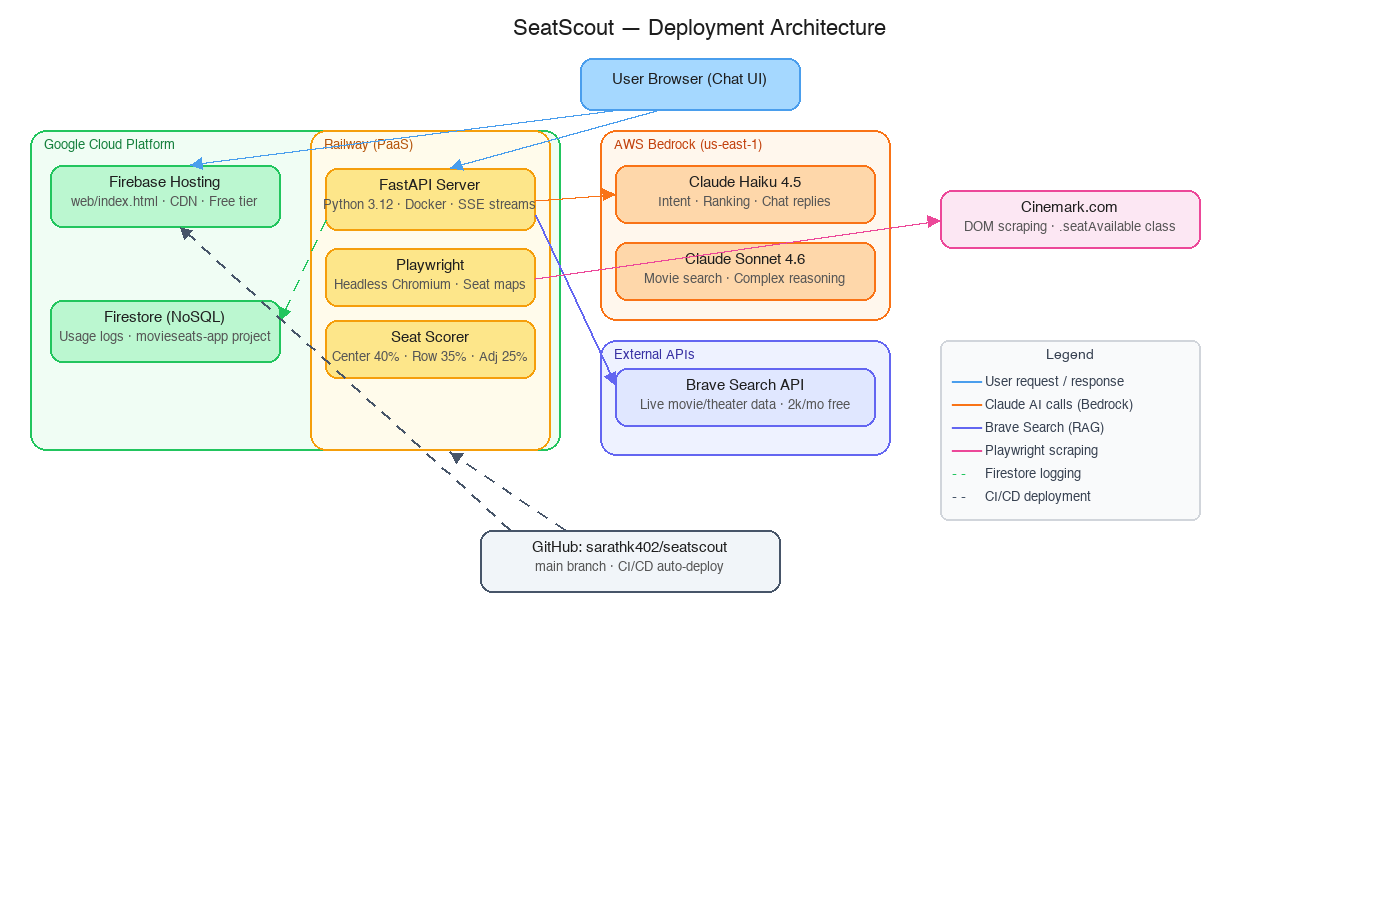
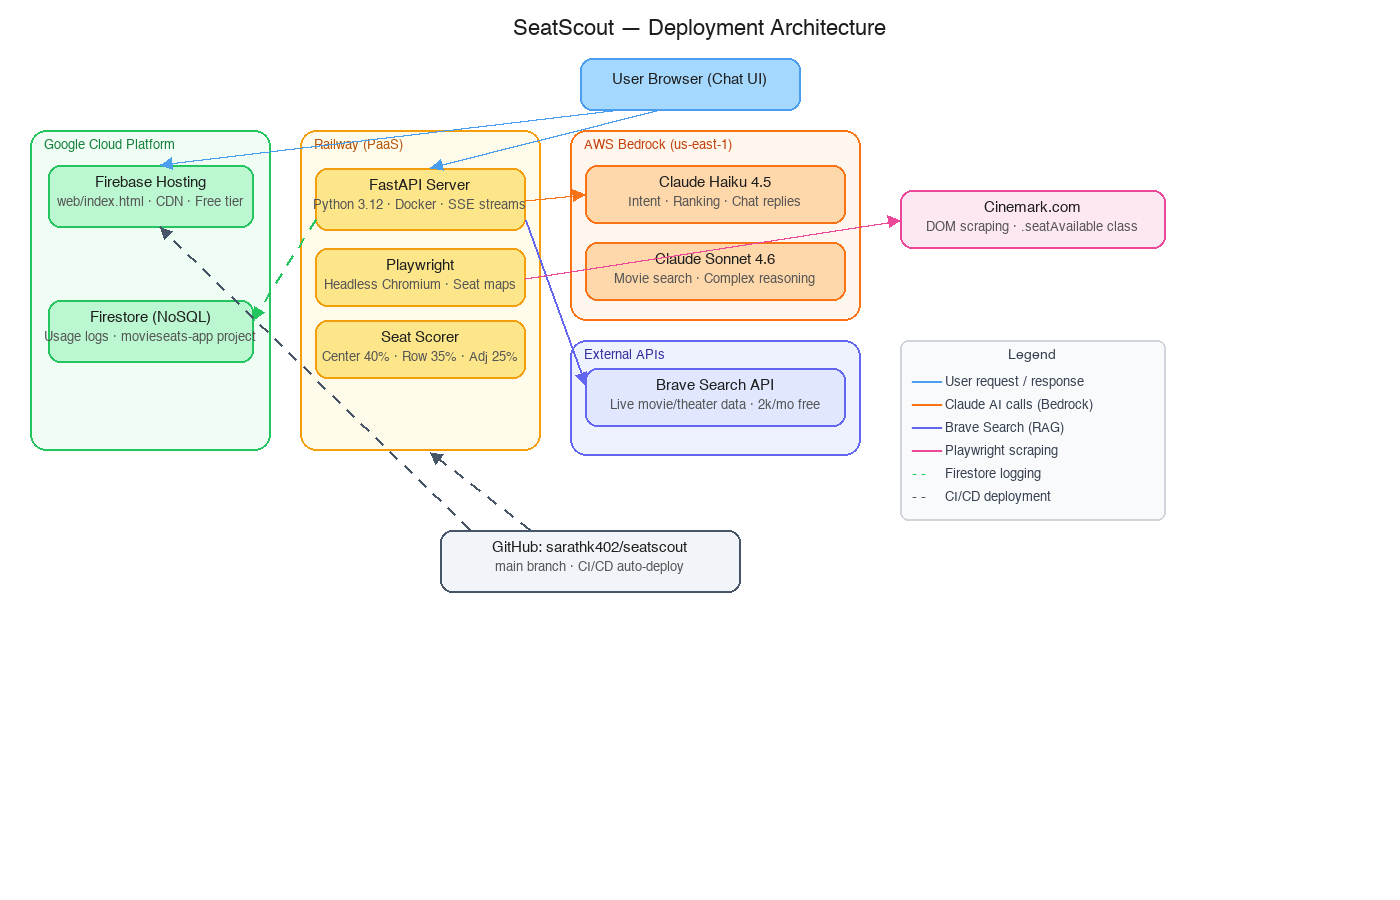
Fix diagram layout: separate Railway zone from Google Cloud
Railway was visually nested inside the GCP zone due to overlapping
coordinates. Now displayed as three clearly distinct columns:
GCP (Firebase + Firestore), Railway (FastAPI + Playwright + Scorer),
AWS Bedrock (Haiku + Sonnet).

diff --git a/docs/gen_diagram.py b/docs/gen_diagram.py
@@ -81,69 +81,69 @@ label(0, 18, W, "SeatScout — Deployment Architecture", F_BIG, "#1e1e1e")
 # ── User ──────────────────────────────────────────────────────────────────────
 box(580, 58, 220, 52, "#a5d8ff", "#4a9eed", "User Browser (Chat UI)")
 
-# ── Google Cloud zone ──────────────────────────────────────────────────────────
-zone(30, 130, 530, 320, "#f0fdf4", "#22c55e", "Google Cloud Platform", "#15803d")
+# ── Google Cloud zone (left column) ──────────────────────────────────────────
+zone(30, 130, 240, 320, "#f0fdf4", "#22c55e", "Google Cloud Platform", "#15803d")
 
 # Firebase
-box(50, 165, 230, 62, "#bbf7d0", "#22c55e", "Firebase Hosting", "web/index.html · CDN · Free tier")
+box(48, 165, 205, 62, "#bbf7d0", "#22c55e", "Firebase Hosting", "web/index.html · CDN · Free tier")
 
 # Firestore
-box(50, 300, 230, 62, "#bbf7d0", "#22c55e", "Firestore (NoSQL)", "Usage logs · movieseats-app project")
+box(48, 300, 205, 62, "#bbf7d0", "#22c55e", "Firestore (NoSQL)", "Usage logs · movieseats-app project")
 
-# ── Railway zone ──────────────────────────────────────────────────────────────
-zone(310, 130, 240, 320, "#fffbeb", "#f59e0b", "Railway (PaaS)", "#b45309")
+# ── Railway zone (center column) ──────────────────────────────────────────────
+zone(300, 130, 240, 320, "#fffbeb", "#f59e0b", "Railway (PaaS)", "#b45309")
 
 # FastAPI
-box(325, 168, 210, 62, "#fde68a", "#f59e0b", "FastAPI Server", "Python 3.12 · Docker · SSE streams")
+box(315, 168, 210, 62, "#fde68a", "#f59e0b", "FastAPI Server", "Python 3.12 · Docker · SSE streams")
 
 # Playwright
-box(325, 248, 210, 58, "#fde68a", "#f59e0b", "Playwright", "Headless Chromium · Seat maps")
+box(315, 248, 210, 58, "#fde68a", "#f59e0b", "Playwright", "Headless Chromium · Seat maps")
 
 # Scorer
-box(325, 320, 210, 58, "#fde68a", "#f59e0b", "Seat Scorer", "Center 40% · Row 35% · Adj 25%")
+box(315, 320, 210, 58, "#fde68a", "#f59e0b", "Seat Scorer", "Center 40% · Row 35% · Adj 25%")
 
-# ── AWS zone ──────────────────────────────────────────────────────────────────
-zone(600, 130, 290, 190, "#fff7ed", "#f97316", "AWS Bedrock (us-east-1)", "#c2410c")
+# ── AWS zone (right column) ───────────────────────────────────────────────────
+zone(570, 130, 290, 190, "#fff7ed", "#f97316", "AWS Bedrock (us-east-1)", "#c2410c")
 
 # Haiku
-box(615, 165, 260, 58, "#fed7aa", "#f97316", "Claude Haiku 4.5", "Intent · Ranking · Chat replies")
+box(585, 165, 260, 58, "#fed7aa", "#f97316", "Claude Haiku 4.5", "Intent · Ranking · Chat replies")
 
 # Sonnet
-box(615, 242, 260, 58, "#fed7aa", "#f97316", "Claude Sonnet 4.6", "Movie search · Complex reasoning")
+box(585, 242, 260, 58, "#fed7aa", "#f97316", "Claude Sonnet 4.6", "Movie search · Complex reasoning")
 
-# ── External services ─────────────────────────────────────────────────────────
-zone(600, 340, 290, 115, "#eef2ff", "#6366f1", "External APIs", "#3730a3")
+# ── Brave Search (external) ───────────────────────────────────────────────────
+zone(570, 340, 290, 115, "#eef2ff", "#6366f1", "External APIs", "#3730a3")
 
-box(615, 368, 260, 58, "#e0e7ff", "#6366f1", "Brave Search API", "Live movie/theater data · 2k/mo free")
+box(585, 368, 260, 58, "#e0e7ff", "#6366f1", "Brave Search API", "Live movie/theater data · 2k/mo free")
 
 # Cinemark
-box(940, 190, 260, 58, "#fce7f3", "#ec4899", "Cinemark.com", "DOM scraping · .seatAvailable class")
+box(900, 190, 265, 58, "#fce7f3", "#ec4899", "Cinemark.com", "DOM scraping · .seatAvailable class")
 
 # ── GitHub ────────────────────────────────────────────────────────────────────
-box(480, 530, 300, 62, "#f1f5f9", "#475569", "GitHub: sarathk402/seatscout", "main branch · CI/CD auto-deploy")
+box(440, 530, 300, 62, "#f1f5f9", "#475569", "GitHub: sarathk402/seatscout", "main branch · CI/CD auto-deploy")
 
 # ── Arrows ────────────────────────────────────────────────────────────────────
 # User → Firebase
-arrow(620, 110, 190, 165, "#4a9eed")
+arrow(620, 110, 160, 165, "#4a9eed")
 # User → FastAPI
-arrow(660, 110, 450, 168, "#4a9eed")
+arrow(660, 110, 430, 168, "#4a9eed")
 # FastAPI → Haiku
-arrow(535, 200, 615, 194, "#f97316")
+arrow(525, 200, 585, 194, "#f97316")
 # FastAPI → Brave
-arrow(535, 215, 615, 385, "#6366f1")
+arrow(525, 220, 585, 385, "#6366f1")
 # Playwright → Cinemark
-arrow(535, 278, 940, 220, "#ec4899")
+arrow(525, 278, 900, 220, "#ec4899")
 # FastAPI → Firestore (dashed)
-arrow(325, 220, 280, 320, "#22c55e", dashed=True)
+arrow(315, 220, 253, 320, "#22c55e", dashed=True)
 # GitHub → Railway (dashed CI/CD)
-arrow(565, 530, 450, 452, "#475569", dashed=True)
+arrow(530, 530, 430, 452, "#475569", dashed=True)
 # GitHub → Firebase (dashed CI/CD)
-arrow(510, 530, 180, 227, "#475569", dashed=True)
+arrow(470, 530, 160, 227, "#475569", dashed=True)
 
 # ── Legend ────────────────────────────────────────────────────────────────────
-lx, ly = 940, 340
-rr(lx, ly, 260, 180, "#f9fafb", "#d1d5db", radius=8)
-label(lx, ly+8, 260, "Legend", get_font(14, bold=True), "#374151")
+lx, ly = 900, 340
+rr(lx, ly, 265, 180, "#f9fafb", "#d1d5db", radius=8)
+label(lx, ly+8, 265, "Legend", get_font(14, bold=True), "#374151")
 items = [
     ("━━", "#4a9eed", "User request / response"),
     ("━━", "#f97316", "Claude AI calls (Bedrock)"),
